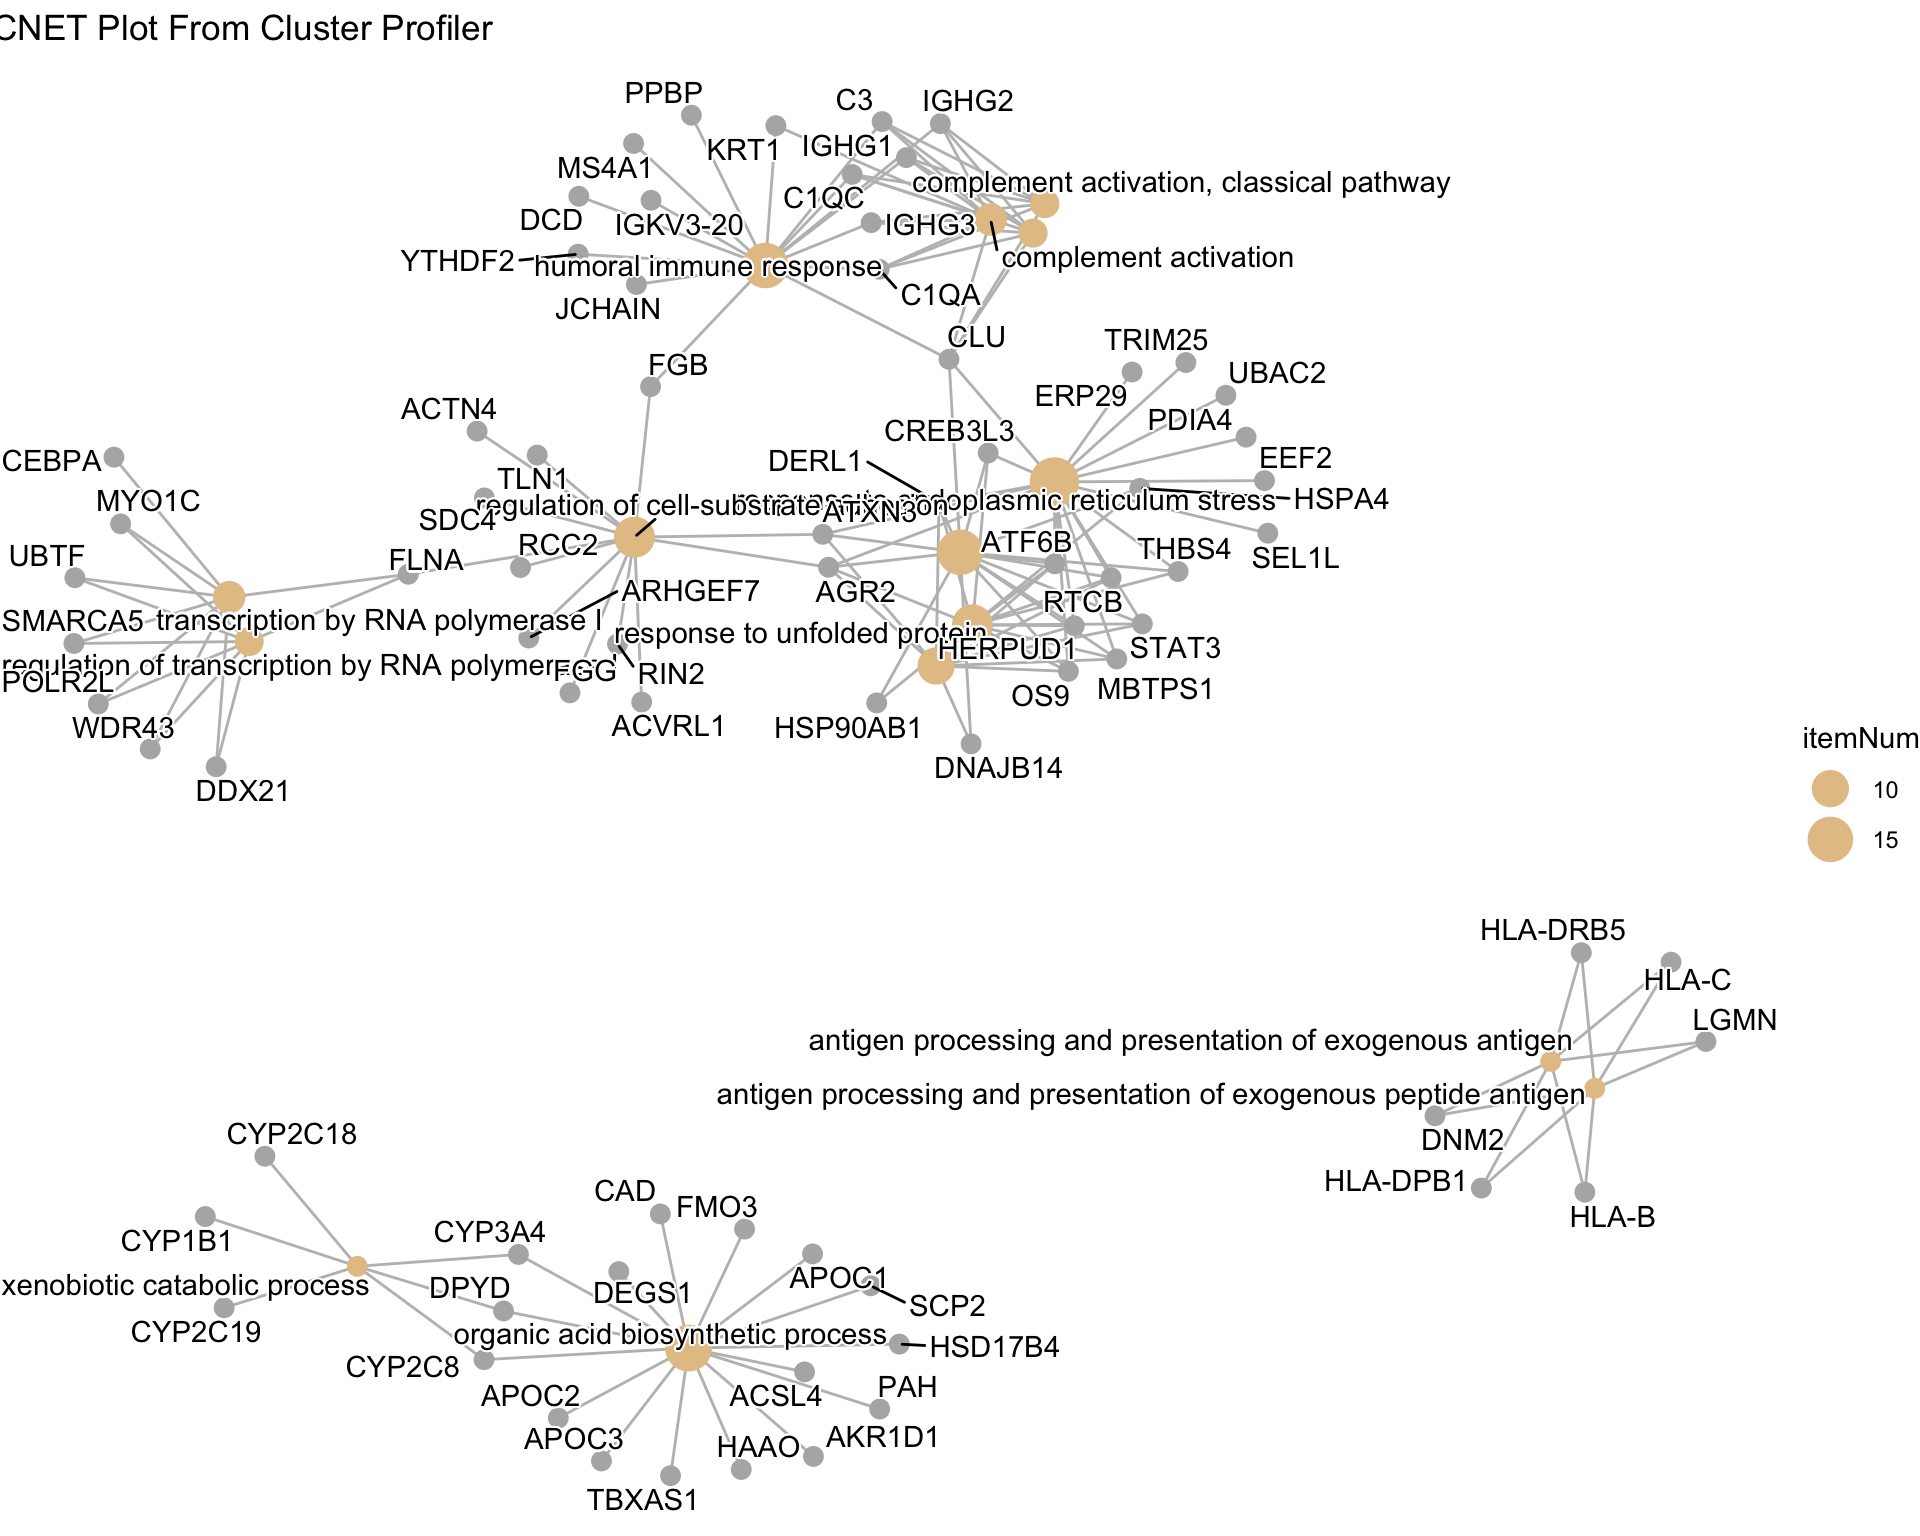
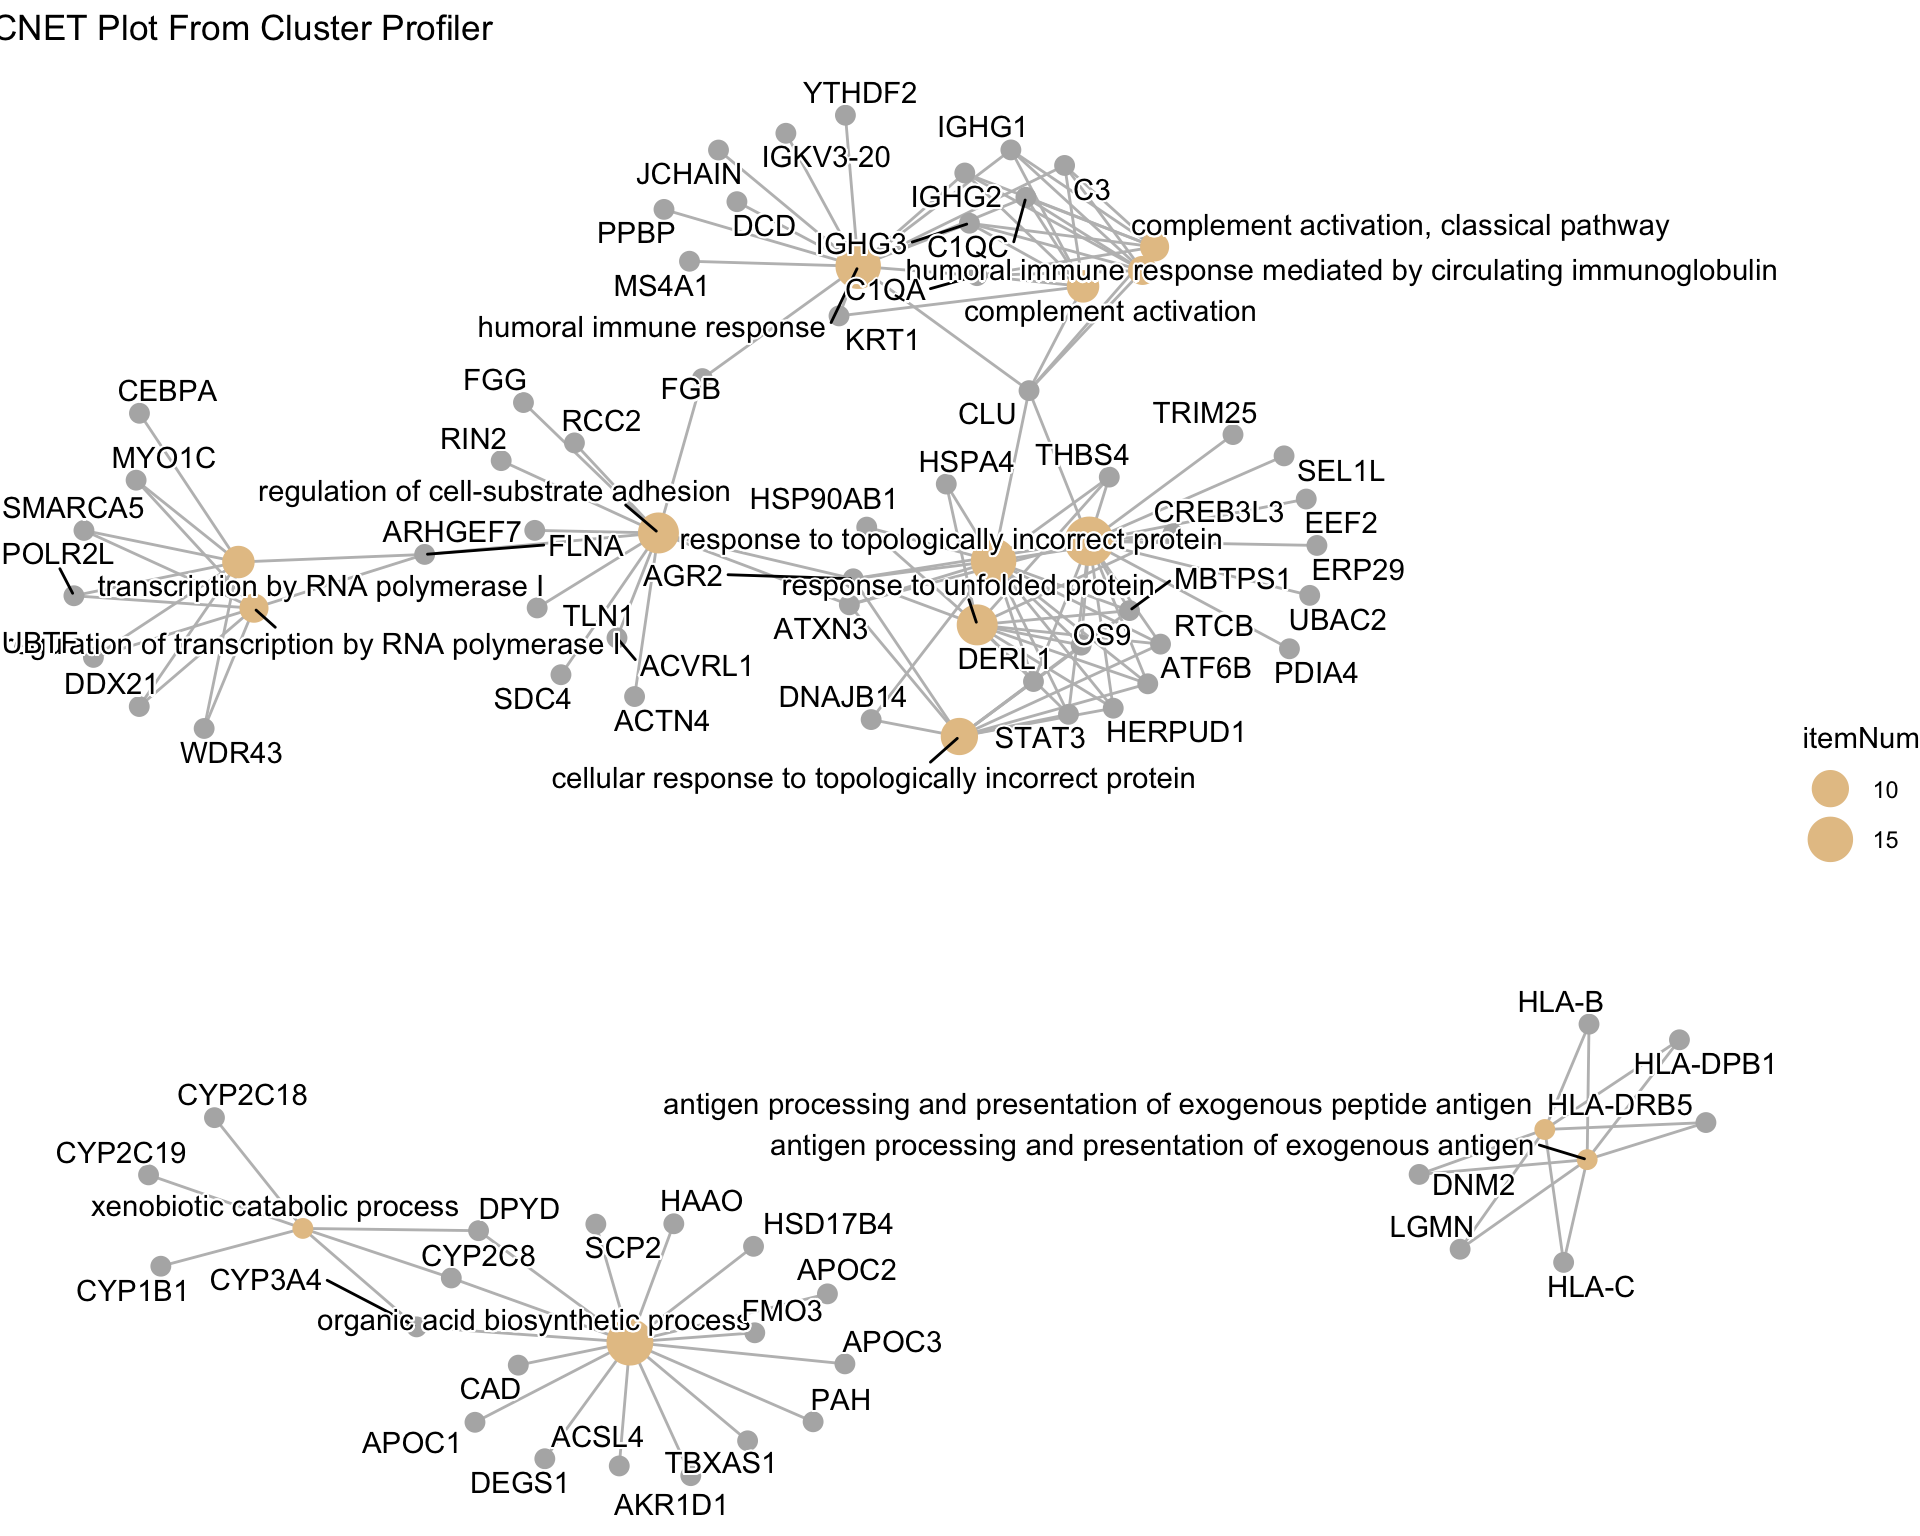
fixed some markdown syntax

diff --git a/docs/projects/sHLA_covid_peptides.html b/docs/projects/sHLA_covid_peptides.html
@@ -460,9 +460,7 @@ Parsing results... Done.</code></pre>
 </div>
 <section id="top-15-most-abundant-peptides-in-covid-sample" class="level3">
 <h3 class="anchored" data-anchor-id="top-15-most-abundant-peptides-in-covid-sample">Top 15 Most Abundant Peptides in COVID Sample</h3>
-<ol type="1">
-<li>Kegg Pathways for Abundant Peptides</li>
-</ol>
+<p>####Kegg Pathways for Abundant Peptides</p>
 <div class="cell">
 <div class="code-copy-outer-scaffold"><div class="sourceCode cell-code" id="cb12"><pre class="sourceCode r code-with-copy"><code class="sourceCode r"><span id="cb12-1"><a href="#cb12-1" aria-hidden="true" tabindex="-1"></a><span class="co"># view kegg pathways of enriched df</span></span>
 <span id="cb12-2"><a href="#cb12-2" aria-hidden="true" tabindex="-1"></a><span class="fu">library</span>(dplyr)</span>
@@ -497,9 +495,8 @@ Parsing results... Done.</code></pre>
 <div class="code-copy-outer-scaffold"><div class="sourceCode cell-code" id="cb13"><pre class="sourceCode r code-with-copy"><code class="sourceCode r"><span id="cb13-1"><a href="#cb13-1" aria-hidden="true" tabindex="-1"></a>kegg_abundant <span class="sc">|&gt;</span></span>
 <span id="cb13-2"><a href="#cb13-2" aria-hidden="true" tabindex="-1"></a>  <span class="fu">ggsave</span>(<span class="at">filename =</span> <span class="st">"plots/kegg_abundant.png"</span>, <span class="at">width =</span> <span class="dv">8</span>, <span class="at">height =</span> <span class="dv">6</span>, <span class="at">dpi =</span> <span class="dv">300</span>)</span></code></pre></div><button title="Copy to Clipboard" class="code-copy-button"><i class="bi"></i></button></div>
 </div>
-<ol start="2" type="1">
-<li>Reactomes</li>
-</ol>
+<section id="reactomes-for-most-abundant-peptides" class="level4">
+<h4 class="anchored" data-anchor-id="reactomes-for-most-abundant-peptides">Reactomes for Most Abundant Peptides</h4>
 <div class="cell">
 <div class="code-copy-outer-scaffold"><div class="sourceCode cell-code" id="cb14"><pre class="sourceCode r code-with-copy"><code class="sourceCode r"><span id="cb14-1"><a href="#cb14-1" aria-hidden="true" tabindex="-1"></a><span class="co"># Assuming your enrichR result for KEGG is called enrichr_kegg</span></span>
 <span id="cb14-2"><a href="#cb14-2" aria-hidden="true" tabindex="-1"></a>plot_df <span class="ot">&lt;-</span> enriched<span class="sc">$</span>Reactome_2022 <span class="sc">|&gt;</span></span>
@@ -529,9 +526,9 @@ Parsing results... Done.</code></pre>
 <div class="code-copy-outer-scaffold"><div class="sourceCode cell-code" id="cb15"><pre class="sourceCode r code-with-copy"><code class="sourceCode r"><span id="cb15-1"><a href="#cb15-1" aria-hidden="true" tabindex="-1"></a>reactome_abundant <span class="sc">|&gt;</span></span>
 <span id="cb15-2"><a href="#cb15-2" aria-hidden="true" tabindex="-1"></a>  <span class="fu">ggsave</span>(<span class="at">filename =</span> <span class="st">"plots/reactome_abundant.png"</span>, <span class="at">width =</span> <span class="dv">10</span>, <span class="at">height =</span> <span class="dv">8</span>, <span class="at">dpi =</span> <span class="dv">300</span>)</span></code></pre></div><button title="Copy to Clipboard" class="code-copy-button"><i class="bi"></i></button></div>
 </div>
-<ol start="3" type="1">
-<li>Gene Ontology Terms for Abundant Peptides</li>
-</ol>
+</section>
+<section id="gene-ontology-terms-for-abundant-peptides" class="level4">
+<h4 class="anchored" data-anchor-id="gene-ontology-terms-for-abundant-peptides">Gene Ontology Terms for Abundant Peptides</h4>
 <div class="cell">
 <div class="code-copy-outer-scaffold"><div class="sourceCode cell-code" id="cb16"><pre class="sourceCode r code-with-copy"><code class="sourceCode r"><span id="cb16-1"><a href="#cb16-1" aria-hidden="true" tabindex="-1"></a><span class="fu">head</span>(plot_df)</span></code></pre></div><button title="Copy to Clipboard" class="code-copy-button"><i class="bi"></i></button></div>
 <div class="cell-output cell-output-stdout">
@@ -595,6 +592,7 @@ Parsing results... Done.</code></pre>
 <span id="cb19-3"><a href="#cb19-3" aria-hidden="true" tabindex="-1"></a>  <span class="fu">ggsave</span>(<span class="at">filename =</span> <span class="st">"plots/GO_abundant.png"</span>, <span class="at">width =</span> <span class="dv">9</span>, <span class="at">height =</span> <span class="dv">8</span>, <span class="at">dpi =</span> <span class="dv">300</span>)</span></code></pre></div><button title="Copy to Clipboard" class="code-copy-button"><i class="bi"></i></button></div>
 </div>
 </section>
+</section>
 <section id="top-15-peptides-with-the-highest-intensity-peaks" class="level3">
 <h3 class="anchored" data-anchor-id="top-15-peptides-with-the-highest-intensity-peaks">Top 15 Peptides with the Highest Intensity Peaks</h3>
 <div class="cell">
@@ -621,9 +619,8 @@ Parsing results... Done.</code></pre>
 Parsing results... Done.</code></pre>
 </div>
 </div>
-<ol type="1">
-<li>KEGG Pathways for Most Intense Peptides</li>
-</ol>
+<section id="kegg-pathways-for-most-intense-peptides" class="level4">
+<h4 class="anchored" data-anchor-id="kegg-pathways-for-most-intense-peptides">KEGG Pathways for Most Intense Peptides</h4>
 <div class="cell">
 <div class="code-copy-outer-scaffold"><div class="sourceCode cell-code" id="cb22"><pre class="sourceCode r code-with-copy"><code class="sourceCode r"><span id="cb22-1"><a href="#cb22-1" aria-hidden="true" tabindex="-1"></a><span class="co"># make plot variable</span></span>
 <span id="cb22-2"><a href="#cb22-2" aria-hidden="true" tabindex="-1"></a>plot_df <span class="ot">&lt;-</span> enriched<span class="sc">$</span>KEGG_2021_Human <span class="sc">|&gt;</span></span>
@@ -656,9 +653,9 @@ Parsing results... Done.</code></pre>
 <span id="cb23-3"><a href="#cb23-3" aria-hidden="true" tabindex="-1"></a>kegg_intense <span class="sc">|&gt;</span></span>
 <span id="cb23-4"><a href="#cb23-4" aria-hidden="true" tabindex="-1"></a>  <span class="fu">ggsave</span>(<span class="at">filename =</span> <span class="st">"plots/kegg_intense.png"</span>, <span class="at">width =</span> <span class="dv">8</span>, <span class="at">height =</span> <span class="dv">6</span>, <span class="at">dpi =</span> <span class="dv">300</span>)</span></code></pre></div><button title="Copy to Clipboard" class="code-copy-button"><i class="bi"></i></button></div>
 </div>
-<ol start="2" type="1">
-<li>Reactome for Most Intense Peptides</li>
-</ol>
+</section>
+<section id="reactome-for-most-intense-peptides" class="level4">
+<h4 class="anchored" data-anchor-id="reactome-for-most-intense-peptides">Reactome for Most Intense Peptides</h4>
 <div class="cell">
 <div class="code-copy-outer-scaffold"><div class="sourceCode cell-code" id="cb24"><pre class="sourceCode r code-with-copy"><code class="sourceCode r"><span id="cb24-1"><a href="#cb24-1" aria-hidden="true" tabindex="-1"></a><span class="co"># create the reactome df</span></span>
 <span id="cb24-2"><a href="#cb24-2" aria-hidden="true" tabindex="-1"></a>plot_df <span class="ot">&lt;-</span> enriched<span class="sc">$</span>Reactome_2022 <span class="sc">|&gt;</span></span>
@@ -692,9 +689,9 @@ Parsing results... Done.</code></pre>
 <span id="cb25-2"><a href="#cb25-2" aria-hidden="true" tabindex="-1"></a>reactome_plot <span class="sc">|&gt;</span></span>
 <span id="cb25-3"><a href="#cb25-3" aria-hidden="true" tabindex="-1"></a>  <span class="fu">ggsave</span>(<span class="at">filename =</span> <span class="st">"plots/reactome_intense.png"</span>, <span class="at">width =</span> <span class="dv">10</span>, <span class="at">height =</span> <span class="dv">8</span>, <span class="at">dpi =</span> <span class="dv">300</span>)</span></code></pre></div><button title="Copy to Clipboard" class="code-copy-button"><i class="bi"></i></button></div>
 </div>
-<ol start="3" type="1">
-<li>Gene Ontology Terms for Most Intense Peptides</li>
-</ol>
+</section>
+<section id="gene-ontology-terms-for-most-intense-peptides" class="level4">
+<h4 class="anchored" data-anchor-id="gene-ontology-terms-for-most-intense-peptides">Gene Ontology Terms for Most Intense Peptides</h4>
 <div class="cell">
 <div class="code-copy-outer-scaffold"><div class="sourceCode cell-code" id="cb26"><pre class="sourceCode r code-with-copy"><code class="sourceCode r"><span id="cb26-1"><a href="#cb26-1" aria-hidden="true" tabindex="-1"></a><span class="co"># create GO df </span></span>
 <span id="cb26-2"><a href="#cb26-2" aria-hidden="true" tabindex="-1"></a>plot_df <span class="ot">&lt;-</span> enriched<span class="sc">$</span>GO_Biological_Process_2023 <span class="sc">|&gt;</span></span>
@@ -729,9 +726,11 @@ Parsing results... Done.</code></pre>
 </div>
 </section>
 </section>
+</section>
 <section id="use-cluster-profiler-on-for-most-intense-peptides" class="level2">
 <h2 class="anchored" data-anchor-id="use-cluster-profiler-on-for-most-intense-peptides">Use Cluster Profiler on for Most Intense Peptides</h2>
-<p>Kegg Pathways From Cluster Profiler for Most Intense Peptides</p>
+<section id="kegg-pathways-from-cluster-profiler-for-most-intense-peptides" class="level4">
+<h4 class="anchored" data-anchor-id="kegg-pathways-from-cluster-profiler-for-most-intense-peptides">Kegg Pathways From Cluster Profiler for Most Intense Peptides</h4>
 <div class="cell">
 <div class="code-copy-outer-scaffold"><div class="sourceCode cell-code" id="cb28"><pre class="sourceCode r code-with-copy"><code class="sourceCode r"><span id="cb28-1"><a href="#cb28-1" aria-hidden="true" tabindex="-1"></a><span class="co"># use enrichplot barplot to show Kegg pathways with most significant </span></span>
 <span id="cb28-2"><a href="#cb28-2" aria-hidden="true" tabindex="-1"></a><span class="fu">barplot</span>(kegg_enrich, <span class="at">showCategory =</span> <span class="dv">15</span>) <span class="sc">+</span> </span>
@@ -744,7 +743,9 @@ Parsing results... Done.</code></pre>
 </div>
 </div>
 </div>
-<p>GO Terms From Cluster Profiler for Most Intense Peptides</p>
+</section>
+<section id="go-terms-from-cluster-profiler-for-most-intense-peptides" class="level4">
+<h4 class="anchored" data-anchor-id="go-terms-from-cluster-profiler-for-most-intense-peptides">GO Terms From Cluster Profiler for Most Intense Peptides</h4>
 <div class="cell">
 <div class="code-copy-outer-scaffold"><div class="sourceCode cell-code" id="cb29"><pre class="sourceCode r code-with-copy"><code class="sourceCode r"><span id="cb29-1"><a href="#cb29-1" aria-hidden="true" tabindex="-1"></a><span class="co"># change fig size</span></span>
 <span id="cb29-2"><a href="#cb29-2" aria-hidden="true" tabindex="-1"></a></span>
@@ -763,7 +764,9 @@ Parsing results... Done.</code></pre>
 <div class="code-copy-outer-scaffold"><div class="sourceCode cell-code" id="cb30"><pre class="sourceCode r code-with-copy"><code class="sourceCode r"><span id="cb30-1"><a href="#cb30-1" aria-hidden="true" tabindex="-1"></a><span class="co"># save plot</span></span>
 <span id="cb30-2"><a href="#cb30-2" aria-hidden="true" tabindex="-1"></a>dot_cluster <span class="sc">|&gt;</span>  <span class="fu">ggsave</span>(<span class="at">filename =</span> <span class="st">"plots/dot_cluster.png"</span>, <span class="at">width =</span> <span class="dv">7</span>, <span class="at">height =</span> <span class="dv">9</span>, <span class="at">dpi =</span> <span class="dv">300</span>)</span></code></pre></div><button title="Copy to Clipboard" class="code-copy-button"><i class="bi"></i></button></div>
 </div>
-<p>CNet Plot from Cluster Profiler for Most Intense Peptides</p>
+</section>
+<section id="cnet-plot-from-cluster-profiler-for-most-intense-peptides" class="level4">
+<h4 class="anchored" data-anchor-id="cnet-plot-from-cluster-profiler-for-most-intense-peptides">CNet Plot from Cluster Profiler for Most Intense Peptides</h4>
 <div class="cell">
 <div class="code-copy-outer-scaffold"><div class="sourceCode cell-code" id="cb31"><pre class="sourceCode r code-with-copy"><code class="sourceCode r"><span id="cb31-1"><a href="#cb31-1" aria-hidden="true" tabindex="-1"></a><span class="co"># create plot variable</span></span>
 <span id="cb31-2"><a href="#cb31-2" aria-hidden="true" tabindex="-1"></a>cnet_cluster <span class="ot">&lt;-</span> <span class="fu">cnetplot</span>(go_enrich, <span class="at">showCategory =</span> <span class="dv">15</span>) <span class="sc">+</span> </span>
@@ -781,6 +784,7 @@ Parsing results... Done.</code></pre>
 <div class="code-copy-outer-scaffold"><div class="sourceCode cell-code" id="cb32"><pre class="sourceCode r code-with-copy"><code class="sourceCode r"><span id="cb32-1"><a href="#cb32-1" aria-hidden="true" tabindex="-1"></a><span class="co"># save plot</span></span>
 <span id="cb32-2"><a href="#cb32-2" aria-hidden="true" tabindex="-1"></a>cnet_cluster <span class="sc">|&gt;</span> <span class="fu">ggsave</span>(<span class="at">filename =</span> <span class="st">"plots/cnet_cluster.png"</span>, <span class="at">width =</span> <span class="dv">10</span>, <span class="at">height =</span> <span class="dv">8</span>, <span class="at">dpi =</span> <span class="dv">300</span>)</span></code></pre></div><button title="Copy to Clipboard" class="code-copy-button"><i class="bi"></i></button></div>
 </div>
+</section>
 </section>
 <section id="conclusions" class="level2">
 <h2 class="anchored" data-anchor-id="conclusions">Conclusions</h2>

diff --git a/docs/styles.css b/docs/styles.css
@@ -5,7 +5,7 @@
 body {
   font-family: 'Segoe UI', Tahoma, Geneva, Verdana, sans-serif;
   line-height: 1.6;
-  background-color: #faf5ea;
+  background-color: #f2eee3;
 }
 
 /* Headings — warm-to-cool gradient across the hierarchy for visual rhythm */
@@ -30,15 +30,21 @@ h3 {
   font-weight: 600;
 }
 
-h4, h5, h6 {
-  color: #7a4fb5; /* soft plum, closes out the gradient */
+h4{
+  color: #5f6f62; /* soft plum, closes out the gradient */
+  margin-top: 1.2em;
+  font-weight: 600;
+}
+
+h5, h6 {
+  color: #c9d7d8; /* soft plum, closes out the gradient */
   margin-top: 1.2em;
   font-weight: 600;
 }
 
 /* Links */
 a {
-  color: #2f8f8f;
+  color: #9b9a86;
   text-decoration: none;
   border-bottom: 1px solid transparent;
   transition: border-color 0.15s ease, color 0.15s ease;
@@ -89,7 +95,7 @@ table td {
 }
 
 table th {
-  background-color: #2f8f8f;
+  background-color: #54786f;
   color: #ffffff;
   font-weight: bold;
 }

diff --git a/styles.css b/styles.css
@@ -5,7 +5,7 @@
 body {
   font-family: 'Segoe UI', Tahoma, Geneva, Verdana, sans-serif;
   line-height: 1.6;
-  background-color: #faf5ea;
+  background-color: #f2eee3;
 }
 
 /* Headings — warm-to-cool gradient across the hierarchy for visual rhythm */
@@ -30,15 +30,21 @@ h3 {
   font-weight: 600;
 }
 
-h4, h5, h6 {
-  color: #7a4fb5; /* soft plum, closes out the gradient */
+h4{
+  color: #5f6f62; /* soft plum, closes out the gradient */
+  margin-top: 1.2em;
+  font-weight: 600;
+}
+
+h5, h6 {
+  color: #c9d7d8; /* soft plum, closes out the gradient */
   margin-top: 1.2em;
   font-weight: 600;
 }
 
 /* Links */
 a {
-  color: #2f8f8f;
+  color: #9b9a86;
   text-decoration: none;
   border-bottom: 1px solid transparent;
   transition: border-color 0.15s ease, color 0.15s ease;
@@ -89,7 +95,7 @@ table td {
 }
 
 table th {
-  background-color: #2f8f8f;
+  background-color: #54786f;
   color: #ffffff;
   font-weight: bold;
 }
